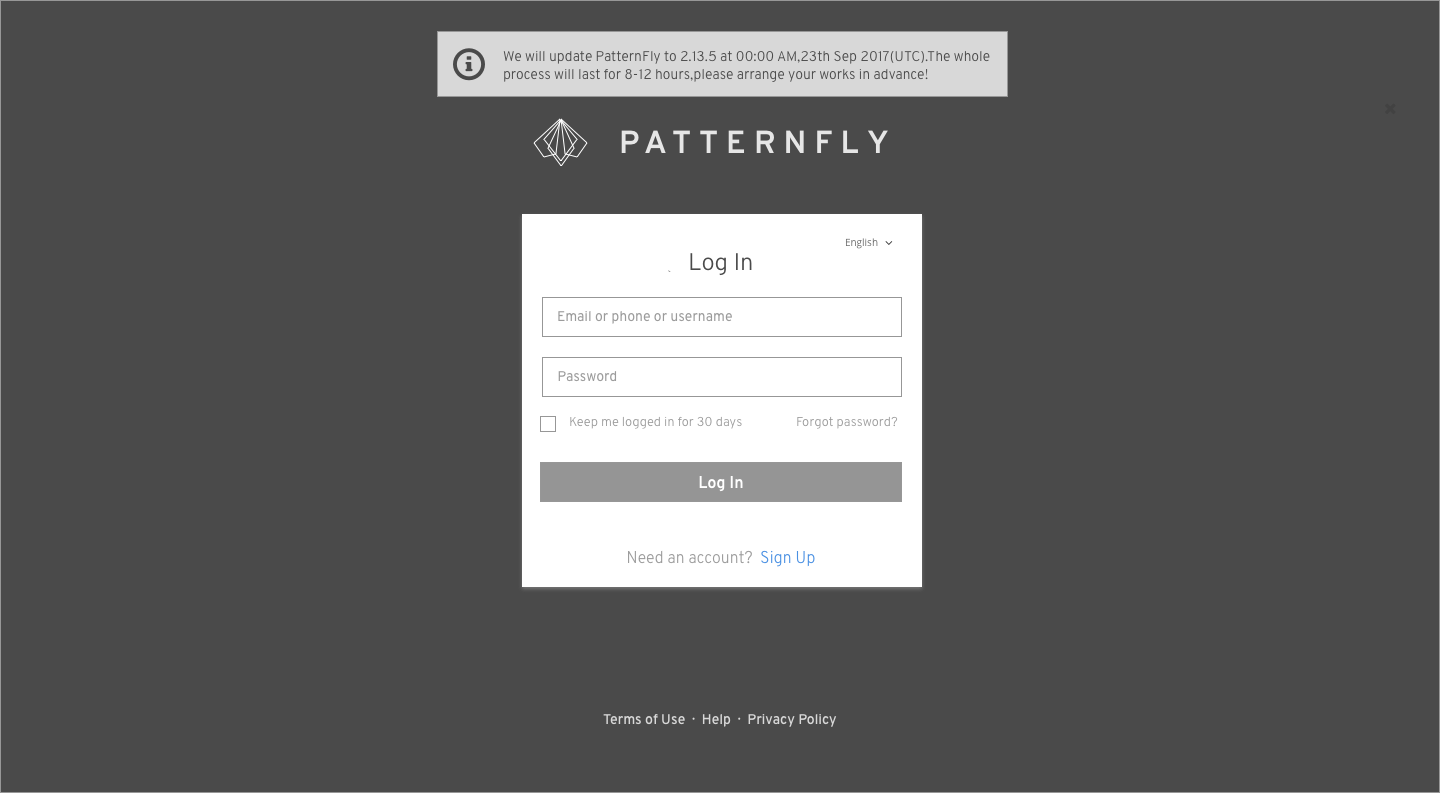
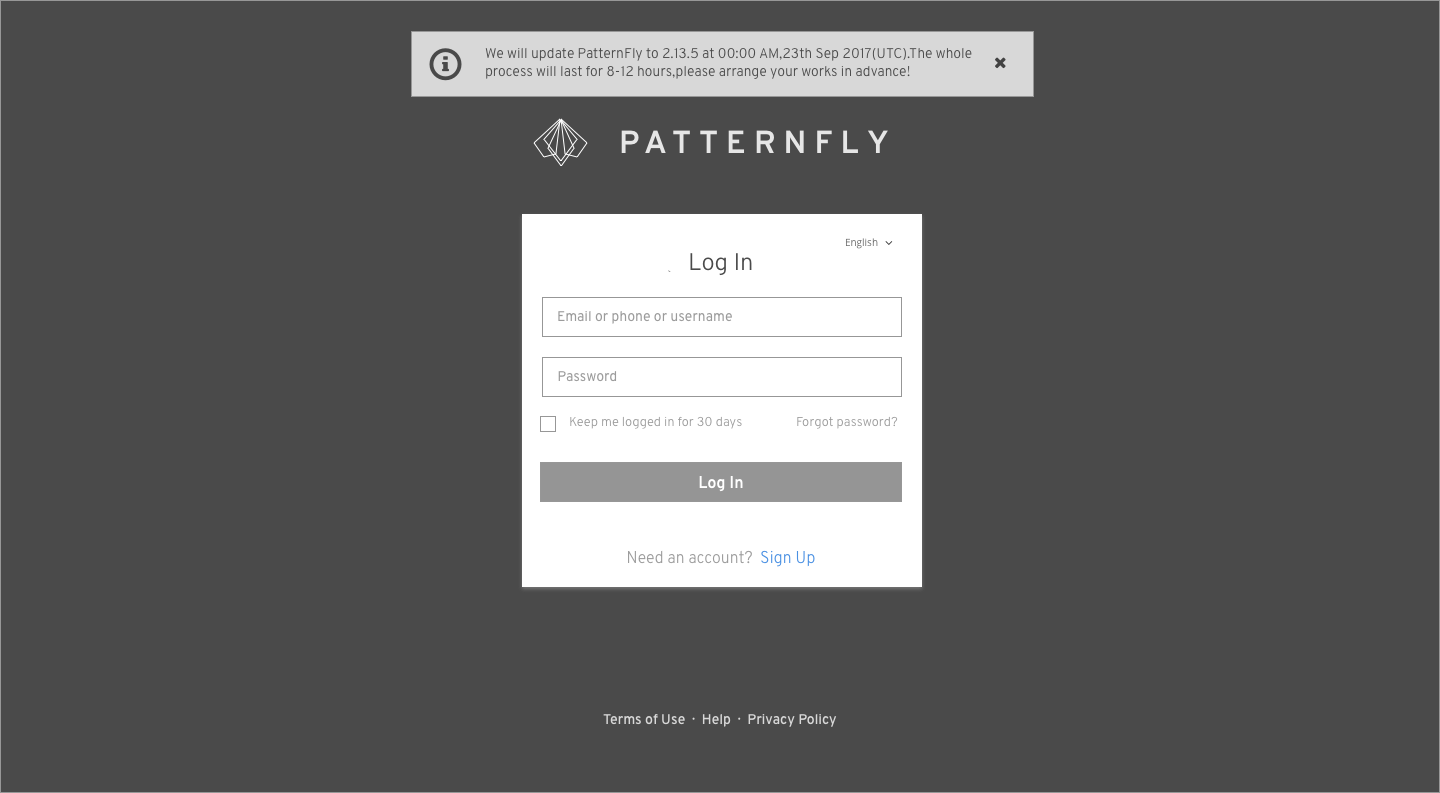
Updates to Notification

Changed region(s): [[0.2812, 0.0303, 0.7188, 0.1211]]

diff --git a/pattern-library/application-framework/login-page/design/design.md b/pattern-library/application-framework/login-page/design/design.md
@@ -84,6 +84,6 @@ If the user input a wrong account name which do not exist or if the user input a
 ![Image of other error messages](img/Server-4.png)
 
 ## Notifications
-Except for error messages, notifications can also be informational messages. An informational message can be triggered by system level events or triggered if the user is timed out of the application.
+Except for error messages, notifications can also be informational messages. An informational message can be triggered by system level events or triggered if the user is timed out of the application. The user can dismiss the notification by clicking on the close icon.
 
 ![Image of notifications](img/Notification.png)
